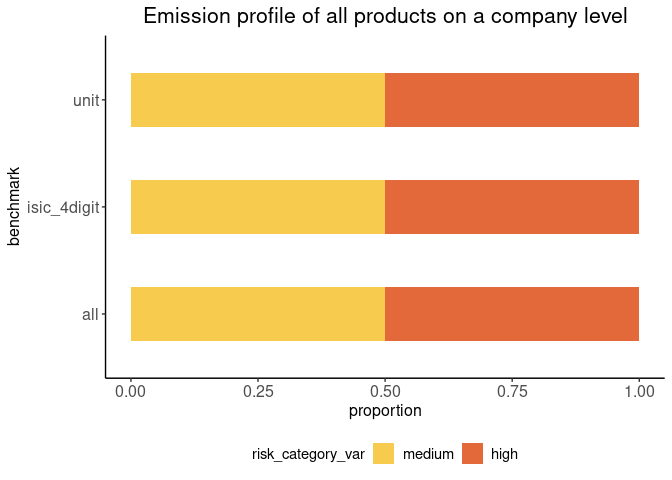
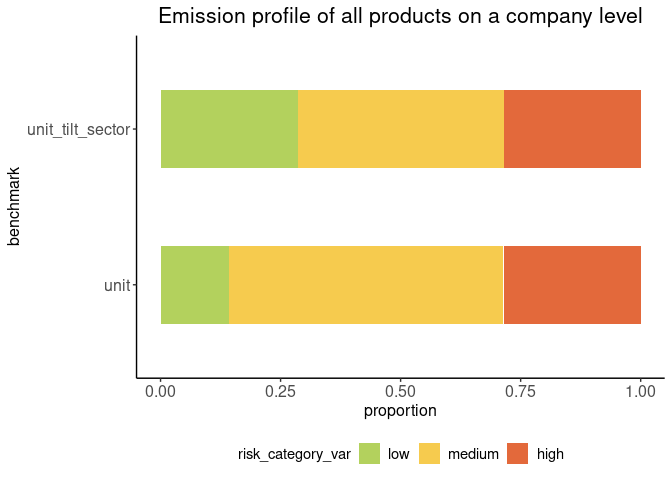
modified map and tests passed

diff --git a/README.md b/README.md
@@ -143,23 +143,26 @@ bar_plot_emission_profile_financial(fin, benchmarks, mode = "equal_weight") +
 
 ``` r
 without_financial
-#> # A tibble: 114 × 12
-#>    company_name postcode emission_profile benchmark ep_product tilt_sector
-#>    <chr>           <int> <chr>            <chr>     <chr>      <chr>      
-#>  1 bruno           27568 high             all       car        D          
-#>  2 bruno           27568 high             all       steel      C          
-#>  3 bruno           27568 medium           all       wheat      B          
-#>  4 mauro           39221 high             all       steel      C          
-#>  5 mauro           39221 high             all       machine    C          
-#>  6 mirja           34117 high             all       tractor    D          
-#>  7 mirja           34117 high             all       cattle     A          
-#>  8 pasant          80337 high             all       tractor    D          
-#>  9 pasant          80337 low              all       apple      A          
-#> 10 peter           88131 high             all       banana     A          
-#> # ℹ 104 more rows
-#> # ℹ 6 more variables: tilt_subsector <chr>, isic_4digit <chr>,
-#> #   isic_4digit_name <chr>, equal_weight <dbl>, worst_case <dbl>,
-#> #   best_case <dbl>
+#> # A tibble: 252 × 35
+#>    companies_id country postcode main_activity ep_product activity_uuid_produc…¹
+#>    <chr>        <chr>      <int> <chr>         <chr>      <chr>                 
+#>  1 %ef%bb%bfma… germany    12043 wholesaler    surface c… a62eb0d6-9120-541c-97…
+#>  2 %ef%bb%bfma… germany    12043 wholesaler    surface c… a62eb0d6-9120-541c-97…
+#>  3 %ef%bb%bfma… germany    12043 wholesaler    surface c… a62eb0d6-9120-541c-97…
+#>  4 %ef%bb%bfma… germany    12043 wholesaler    surface c… a62eb0d6-9120-541c-97…
+#>  5 %ef%bb%bfma… germany    12043 wholesaler    surface c… a62eb0d6-9120-541c-97…
+#>  6 %ef%bb%bfma… germany    12043 wholesaler    surface c… a62eb0d6-9120-541c-97…
+#>  7 %ef%bb%bfma… germany    12043 wholesaler    surface c… a62eb0d6-9120-541c-97…
+#>  8 %ef%bb%bfma… germany    12043 wholesaler    surface c… a62eb0d6-9120-541c-97…
+#>  9 %ef%bb%bfma… germany    12043 wholesaler    hand tool… 7c082396-1f14-5674-86…
+#> 10 %ef%bb%bfma… germany    12043 wholesaler    hand tool… 7c082396-1f14-5674-86…
+#> # ℹ 242 more rows
+#> # ℹ abbreviated name: ¹activity_uuid_product_uuid
+#> # ℹ 29 more variables: matched_activity_name <chr>,
+#> #   matched_reference_product <chr>, unit <chr>, co2e_lower <dbl>,
+#> #   co2e_upper <dbl>, emission_profile <chr>, benchmark <chr>,
+#> #   profile_ranking <dbl>, tilt_sector <chr>, tilt_subsector <chr>,
+#> #   sector_profile <chr>, scenario <chr>, year <int>, …
 ```
 
 Plot on a company level. The user can choose any number of benchmark to
@@ -168,11 +171,12 @@ be plotted.
 ``` r
 no_fin <- without_financial
 
-benchmarks <- c("all", "isic_4digit", "unit")
+benchmarks <- c("unit", "unit_tilt_sector")
+company_name <- no_fin$companies_id[1]
 
 no_fin |>
-  filter(company_name == "peter") |>
-  bar_plot_emission_profile(benchmarks, mode = "equal_weight") +
+  filter(companies_id == company_name) |>
+  bar_plot_emission_profile(benchmarks, mode = "equal_weight", scenario = "1.5C RPS", year = 2030) +
   labs(title = "Emission profile of all products on a company level")
 ```
 
@@ -181,7 +185,7 @@ no_fin |>
 Plot on a portfolio level.
 
 ``` r
-bar_plot_emission_profile(no_fin, benchmarks, mode = "equal_weight") +
+bar_plot_emission_profile(no_fin, benchmarks, mode = "equal_weight", scenario = "1.5C RPS", year = 2030) +
   labs(title = "Emission profile of all products on a portfolio level")
 ```
 
@@ -191,7 +195,7 @@ bar_plot_emission_profile(no_fin, benchmarks, mode = "equal_weight") +
 
 ``` r
 fin <- financial
-scenario <- "WEO"
+scenario <- "IPR"
 year <- 2030
 benchmarks <- c("all", "unit")
 mode <- "best_case"
@@ -214,12 +218,11 @@ Different modes can be chosen: “equal_weight”, “worst_case” and
 ``` r
 no_fin <- without_financial
 
-map_region_risk(no_fin, "DE", benchmark = "tilt_sector", mode = "best_case") +
+map_region_risk(no_fin, "DE", benchmark = "unit_tilt_sector", mode = "best_case", scenario = "NZ 2050", year = 2030) +
   labs(title = "German map of high, medium and low proportions of the companies
   that are found in one region.
   © EuroGeographics for the administrative boundaries ")
 #> Extracting data using giscoR package, please report issues on https://github.com/rOpenGov/giscoR/issues
-#> Cache management as per giscoR. see 'giscoR::gisco_get_nuts()'
 ```
 
 <img src="man/figures/README-unnamed-chunk-14-1.png" width="100%" />

diff --git a/tests/testthat/_snaps/without_financial.md b/tests/testthat/_snaps/without_financial.md
@@ -3,7 +3,7 @@
     Code
       without_financial
     Output
-      # A tibble: 252 x 34
+      # A tibble: 252 x 35
          companies_id country postcode main_activity ep_product activity_uuid_produc~1
          <chr>        <chr>      <int> <chr>         <chr>      <chr>                 
        1 %ef%bb%bfma~ germany    12043 wholesaler    surface c~ a62eb0d6-9120-541c-97~
@@ -18,7 +18,7 @@
       10 %ef%bb%bfma~ germany    12043 wholesaler    hand tool~ 7c082396-1f14-5674-86~
       # i 242 more rows
       # i abbreviated name: 1: activity_uuid_product_uuid
-      # i 28 more variables: matched_activity_name <chr>,
+      # i 29 more variables: matched_activity_name <chr>,
       #   matched_reference_product <chr>, unit <chr>, co2e_lower <dbl>,
       #   co2e_upper <dbl>, emission_profile <chr>, benchmark <chr>,
       #   profile_ranking <dbl>, tilt_sector <chr>, tilt_subsector <chr>,

diff --git a/tests/testthat/_snaps/example_data.md b/tests/testthat/_snaps/example_data.md
@@ -20,11 +20,13 @@
     Code
       str(example_without_financial())
     Output
-      tibble [1 x 6] (S3: tbl_df/tbl/data.frame)
-       $ company_name    : chr "a"
-       $ emission_profile: chr "medium"
-       $ benchmark       : chr "all"
-       $ equal_weight    : num 0.1
-       $ worst_case      : num 0.1
-       $ best_case       : num 0.1
+      tibble [1 x 8] (S3: tbl_df/tbl/data.frame)
+       $ company_name                 : chr "a"
+       $ emission_profile             : chr "medium"
+       $ benchmark                    : chr "all"
+       $ scenario                     : chr "1.5C RPS"
+       $ year                         : num 2030
+       $ equal_weight_emission_profile: num 0.1
+       $ worst_case_emission_profile  : num 0.1
+       $ best_case_emission_profile   : num 0.1
 
